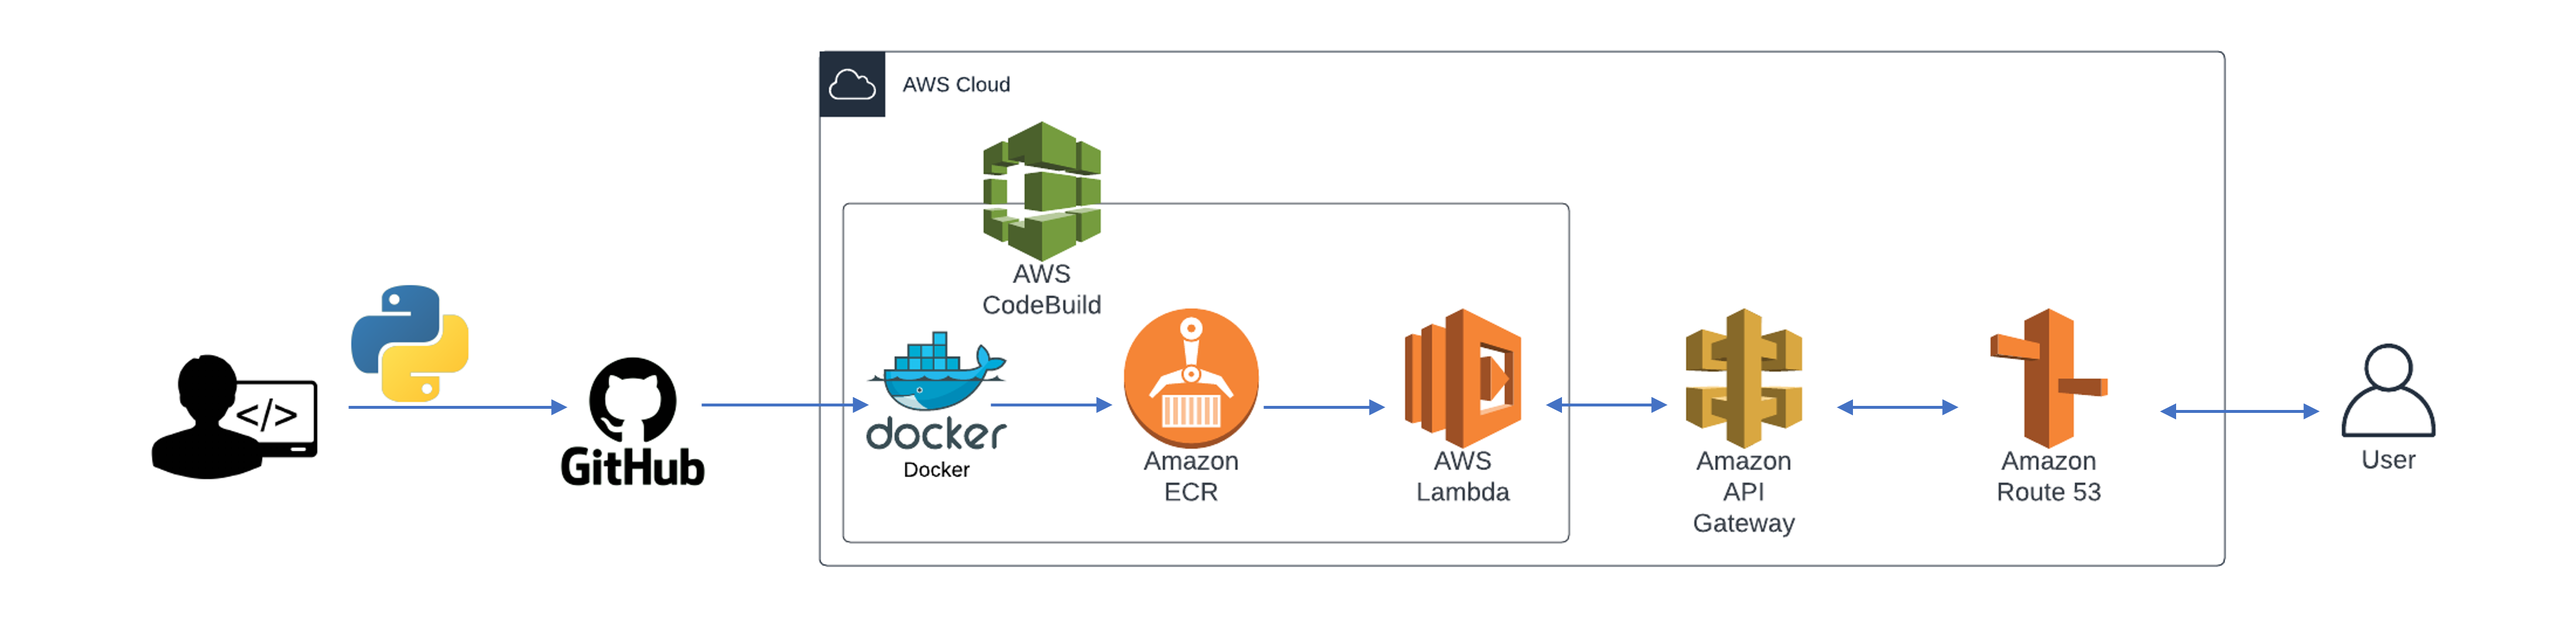
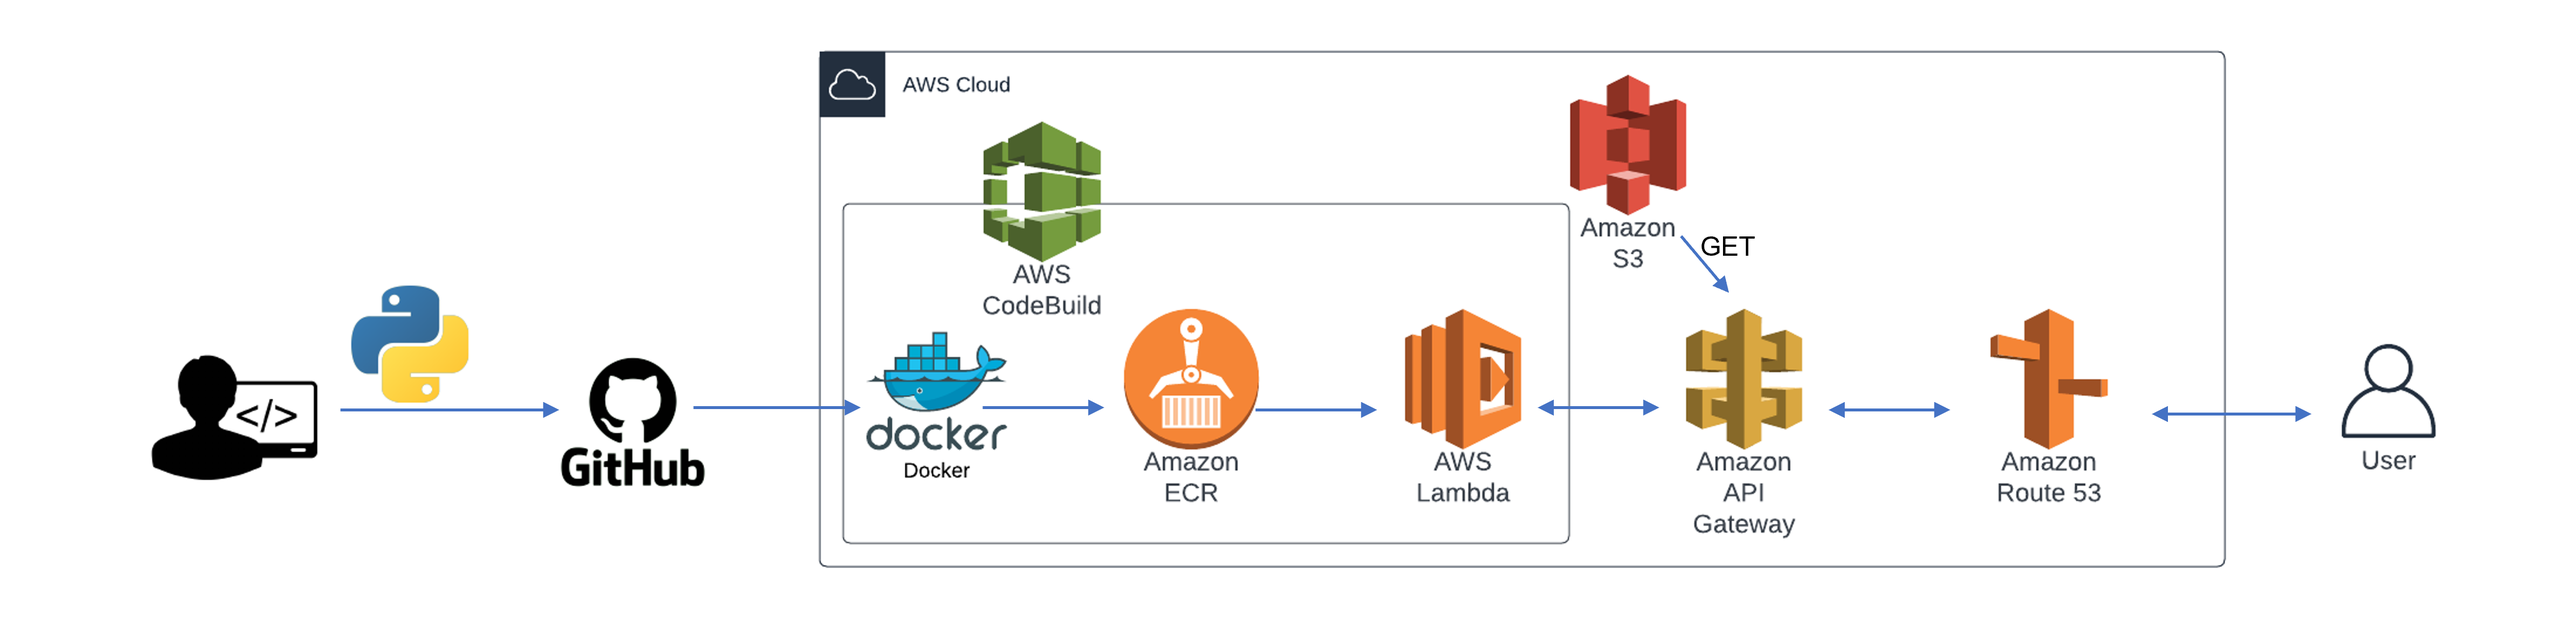
edited some text

diff --git a/main.py b/main.py
@@ -28,7 +28,7 @@ async def page():          # will be run if a get request is made to the path "/
     <body>
         <h1>What's this all about?</h1>
         <p>I created this page after learning a bit about FastAPI in python.
-        <br>I wanted to have a go at using FastAPI to create a simple webapp which would be live, hosted on serverless AWS.
+        <br>I wanted to have a go at using FastAPI to create a simple webapp which would be hosted on serverless AWS.
         <br>Using this project, I have been able to practise a few things:
             <ul>
                 <li>FastAPI</li>
@@ -39,6 +39,7 @@ async def page():          # will be run if a get request is made to the path "/
                 <li>Setting up CI/CD pipelines using AWS CodeBuild</li>
                 <li>Some basic html (I'm still in the process of that, as I'm sure you can tell)</li>
             </ul>
+            Here's a schematic of the pipeline:
             <img src="https://my-webpage-images.s3.amazonaws.com/webapp_pipeline.png" width="1300">
         </p>
     </body>
